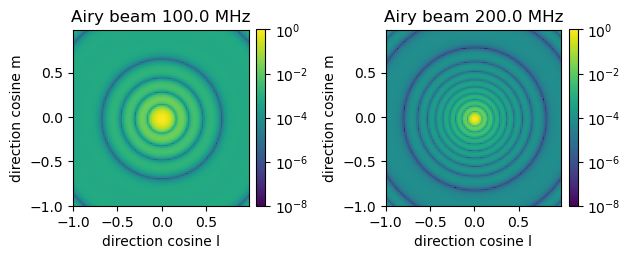
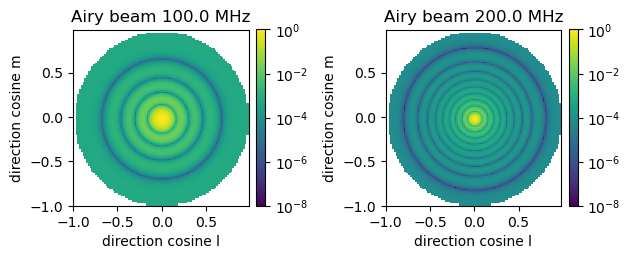
Add a BeamInterface tutorial
minor improvements to the analytic beam tutorial
better error message in UVBeam.interp

diff --git a/tests/uvbeam/test_uvbeam.py b/tests/uvbeam/test_uvbeam.py
@@ -1182,15 +1182,26 @@ def test_spatial_interpolation_errors(interpolation_function, cst_power_2freq_cu
             freq_array=freq_interp_vals,
             interpolation_function=interpolation_function,
         )
-    # test errors if positions outside range
+    # test errors if positions outside range (zenith angle)
     with pytest.raises(
         ValueError,
-        match="at least one interpolation location "
-        "is outside of the UVBeam pixel coverage.",
+        match="at least one interpolation location is outside of the UVBeam "
+        "pixel coverage. The zenith angles values are outside UVBeam coverage.",
     ):
         uvbeam.interp(
             az_array=az_interp_vals,
             za_array=za_interp_vals + np.pi / 2,
+            interpolation_function=interpolation_function,
+        )
+
+    with pytest.raises(
+        ValueError,
+        match="at least one interpolation location is outside of the UVBeam "
+        "pixel coverage. The azimuth values are outside UVBeam coverage.",
+    ):
+        uvbeam.interp(
+            az_array=az_interp_vals + np.pi / 2,
+            za_array=za_interp_vals,
             interpolation_function=interpolation_function,
         )
 

diff --git a/src/pyuvdata/uvbeam/uvbeam.py b/src/pyuvdata/uvbeam/uvbeam.py
@@ -1392,9 +1392,14 @@ class UVBeam(UVBase):
                 az_sq_dist = np.where(az_sq_dist > temp_arr, temp_arr, az_sq_dist)
 
         if np.any(np.sqrt(az_sq_dist + za_sq_dist) > (max_axis_diff * 2.0)):
+            if np.any(np.sqrt(za_sq_dist) > (max_axis_diff * 2.0)):
+                msg = " The zenith angles values are outside UVBeam coverage."
+            elif np.any(np.sqrt(az_sq_dist) > (max_axis_diff * 2.0)):
+                msg = " The azimuth values are outside UVBeam coverage."
+
             raise ValueError(
                 "at least one interpolation location "
-                "is outside of the UVBeam pixel coverage."
+                "is outside of the UVBeam pixel coverage." + msg
             )
 
     def _prepare_coordinate_data(self, input_data_array):

diff --git a/docs/analytic_beam_tutorial.rst b/docs/analytic_beam_tutorial.rst
@@ -45,16 +45,23 @@ are included the array returned from the ``power_eval`` method will be complex.
   >>> za_array = radius * zmax
   >>> az_array = np.arctan2(m_arr, l_arr)
 
+  >>> az_array = az_array.flatten()
+  >>> za_array = za_array.flatten()
+
   >>> Nfreqs = 11
   >>> freqs = np.linspace(100, 200, 11) * 1e6
 
-  >>> beam_vals = airy_beam.power_eval(
-  ...     az_array=az_array.flatten(), za_array=za_array.flatten(), freq_array=freqs
+  >>> # find the values above the horizon so we don't evaluate beyond the horizon
+  >>> above_hor = np.nonzero(za_array <= np.pi / 2.)[0]
+
+  >>> # set up an output array that matches the expected shape, except that it
+  >>> # includes the points beyond the horizon, and fill it with infinity.
+  >>> # Then we will set the points above the horizon to the output of power_eval.
+  >>> beam_vals = np.full((1, airy_beam.Npols, Nfreqs, n_vals * n_vals), np.inf, dtype=float)
+
+  >>> beam_vals[:, :, :, above_hor] = airy_beam.power_eval(
+  ...     az_array=az_array[above_hor], za_array=za_array[above_hor], freq_array=freqs
   ... )
-  >>> # Note that the returned array for the power response has shape
-  >>> # (1, Npols, number_of_frequencies, number_of_directions)
-  >>> beam_vals.shape
-  (1, 2, 11, 10000)
 
   >>> beam_vals = np.reshape(beam_vals, (1, airy_beam.Npols, Nfreqs, n_vals, n_vals))
 
@@ -109,48 +116,54 @@ part, but in general E-Field beams can be complex, so a complex array is returne
   >>> # set up zenith angle, azimuth and frequency arrays to evaluate with
   >>> # make a regular grid in direction cosines for nice plots
   >>> n_vals = 100
-  >>> zmax = np.radians(10)  # Degrees
+  >>> zmax = np.radians(90)  # Degrees
   >>> axis_arr = np.arange(-n_vals/2., n_vals/2.) / float(n_vals/2.)
   >>> l_arr, m_arr = np.meshgrid(axis_arr, axis_arr)
   >>> radius = np.sqrt(l_arr**2 + m_arr**2)
   >>> za_array = radius * zmax
   >>> az_array = np.arctan2(m_arr, l_arr)
 
+  >>> az_array = az_array.flatten()
+  >>> za_array = za_array.flatten()
+
   >>> Nfreqs = 11
   >>> freqs = np.linspace(100, 200, 11) * 1e8
 
-  >>> beam_vals = dipole_beam.efield_eval(
-  ...     az_array=az_array.flatten(), za_array=za_array.flatten(), freq_array=freqs
-  ... )
-  >>> # Note that the returned array for the E-field response has shape
-  >>> # (Naxes_vec, Nfeeds, number_of_frequencies, number_of_directions)
-  >>> beam_vals.shape
-  (2, 2, 11, 10000)
+  >>> # find the values above the horizon so we don't evaluate beyond the horizon
+  >>> above_hor = np.nonzero(za_array <= np.pi / 2.)[0]
 
-  >>> # reshape to get l/m grid back.
+  >>> # set up an output array that matches the expected shape except, that it
+  >>> # includes the points beyond the horizon, and fill it with infinity.
+  >>> # Then we will set the points above the horizon to the output of efield_eval.
+  >>> beam_vals = np.full((dipole_beam.Naxes_vec, dipole_beam.Nfeeds, Nfreqs, n_vals * n_vals), np.inf, dtype=complex)
+
+  >>> beam_vals[:, :, :, above_hor] = dipole_beam.efield_eval(
+  ...     az_array=az_array[above_hor], za_array=za_array[above_hor], freq_array=freqs
+  ... )
+
   >>> beam_vals = np.reshape(beam_vals, (dipole_beam.Naxes_vec, dipole_beam.Nfeeds, Nfreqs, n_vals, n_vals))
 
   >>> fig, ax = plt.subplots(2, 2)
 
-  >>> be00 = ax[0,0].imshow(np.real(beam_vals[0,0,0]), extent=[np.min(l_arr), np.max(l_arr), np.min(m_arr), np.max(m_arr)])
+  >>> be00 = ax[0,0].imshow(beam_vals[0,0,0].real, extent=[np.min(l_arr), np.max(l_arr), np.min(m_arr), np.max(m_arr)])
   >>> _ = ax[0,0].set_title("E/W dipole azimuth response")
   >>> _ = ax[0,0].set_xlabel("direction cosine l")
   >>> _ = ax[0,0].set_ylabel("direction cosine m")
   >>> _ = fig.colorbar(be00, ax=ax[0,0])
 
-  >>> be10 = ax[1,0].imshow(np.real(beam_vals[1,0,0]), extent=[np.min(l_arr), np.max(l_arr), np.min(m_arr), np.max(m_arr)])
+  >>> be10 = ax[1,0].imshow(beam_vals[1,0,0].real, extent=[np.min(l_arr), np.max(l_arr), np.min(m_arr), np.max(m_arr)])
   >>> _ = ax[1,0].set_title("E/W dipole zenith angle response")
   >>> _ = ax[1,0].set_xlabel("direction cosine l")
   >>> _ = ax[1,0].set_ylabel("direction cosine m")
   >>> _ = fig.colorbar(be00, ax=ax[1,0])
 
-  >>> be01 = ax[0,1].imshow(np.real(beam_vals[0,1,0]), extent=[np.min(l_arr), np.max(l_arr), np.min(m_arr), np.max(m_arr)])
+  >>> be01 = ax[0,1].imshow(beam_vals[0,1,0].real, extent=[np.min(l_arr), np.max(l_arr), np.min(m_arr), np.max(m_arr)])
   >>> _ = ax[0,1].set_title("N/S dipole azimuth response")
   >>> _ = ax[0,1].set_xlabel("direction cosine l")
   >>> _ = ax[0,1].set_ylabel("direction cosine m")
   >>> _ = fig.colorbar(be00, ax=ax[0,1])
 
-  >>> be11 = ax[1,1].imshow(np.real(beam_vals[1,1,0]), extent=[np.min(l_arr), np.max(l_arr), np.min(m_arr), np.max(m_arr)])
+  >>> be11 = ax[1,1].imshow(beam_vals[1,1,0].real, extent=[np.min(l_arr), np.max(l_arr), np.min(m_arr), np.max(m_arr)])
   >>> _ = ax[1,1].set_title("N/S dipole zenith angle response")
   >>> _ = ax[1,1].set_xlabel("direction cosine l")
   >>> _ = ax[1,1].set_ylabel("direction cosine m")

diff --git a/docs/beam_interface_tutorial.rst b/docs/beam_interface_tutorial.rst
@@ -1,0 +1,103 @@
+--------------
+Beam Interface
+--------------
+
+The BeamInterface object is designed to provide a unified interface for UVBeam
+and AnalyticBeam objects to compute beam response values. It can be constructed
+with either a :class:`pyuvdata.UVBeam` or :class:`AnalyticBeam` and the beam
+response can be calculated using the :meth:`pyuvdata.BeamInterface.compute_response`
+method.
+
+Using BeamInterface
+-------------------
+
+The following code shows how to set up two BeamInterface objects, one with an
+analytic beam and one with a UVBeam. Then each is evalated at the same frequency
+and directions using the same call to :meth:`pyuvdata.BeamInterface.compute_response`
+and the results are plotted. The value of the BeamInterface object is that it
+unifies the interface so the code calling it does not need to know if the beam
+that is attached to it is an analytic beam or a UVBeam.
+
+.. code-block:: python
+
+  >>> import os
+  >>> import matplotlib.pyplot as plt
+  >>> import numpy as np
+  >>> from matplotlib.colors import LogNorm
+
+  >>> from pyuvdata import ShortDipoleBeam, BeamInterface, UVBeam
+  >>> from pyuvdata.data import DATA_PATH
+
+  >>> filename = os.path.join(DATA_PATH, "mwa_full_EE_test.h5")
+
+  >>> dipole_beam = BeamInterface(ShortDipoleBeam(), beam_type="power")
+  >>> mwa_beam = BeamInterface(UVBeam.from_file(filename, pixels_per_deg=1), beam_type="power")
+
+  >>> # set up zenith angle, azimuth and frequency arrays to evaluate with
+  >>> # make a regular grid in direction cosines for nice plots
+  >>> n_vals = 100
+  >>> zmax = np.radians(90)  # Degrees
+  >>> axis_arr = np.arange(-n_vals/2., n_vals/2.) / float(n_vals/2.)
+  >>> l_arr, m_arr = np.meshgrid(axis_arr, axis_arr)
+  >>> radius = np.sqrt(l_arr**2 + m_arr**2)
+  >>> za_array = radius * zmax
+  >>> az_array = np.arctan2(m_arr, l_arr)
+
+  >>> # Wrap the azimuth array to [0, 2pi] to match the extent of the UVBeam azimuth
+  >>> where_neg_az = np.nonzero(az_array < 0)
+  >>> az_array[where_neg_az] = az_array[where_neg_az] + np.pi * 2.
+  >>> az_array = az_array.flatten()
+  >>> za_array = za_array.flatten()
+
+  >>> # find the values above the horizon so we don't try to interpolate the MWA beam
+  >>> # beyond the horizon
+  >>> above_hor = np.nonzero(za_array <= np.pi / 2.)[0]
+
+  >>> # set up output arrays that matches the expected shape, except that they
+  >>> # include the points beyond the horizon, and fill them with infinity.
+  >>> # Then we will set the points above the horizon to the computed responses.
+  >>> dipole_beam_vals = np.full((1, 4, 1, n_vals * n_vals), np.inf, dtype=complex)
+  >>> mwa_beam_vals = np.full((1, 4, 1, n_vals * n_vals), np.inf, dtype=complex)
+
+  >>> # The MWA beam we have in our test data is small, it only has 3 frequencies,
+  >>> # so we will just get the value at one of those frequencies rather than
+  >>> # trying to interpolate to a new frequency.
+  >>> freqs = np.array([mwa_beam.beam.freq_array[-1]])
+
+  >>> dipole_beam_vals[:, :, :, above_hor] = dipole_beam.compute_response(
+  ...     az_array=az_array[above_hor], za_array=za_array[above_hor], freq_array=freqs
+  ... )
+  >>> dipole_beam_vals = dipole_beam_vals.reshape(4, n_vals, n_vals)
+
+  >>> mwa_beam_vals[:, :, :, above_hor] = mwa_beam.compute_response(
+  ...     az_array=az_array[above_hor], za_array=za_array[above_hor], freq_array=freqs
+  ... )
+  >>> mwa_beam_vals = mwa_beam_vals.reshape(4, n_vals, n_vals)
+
+  >>> fig, ax = plt.subplots(1, 2)
+  >>> bp_dip = ax[0].imshow(
+  ...   dipole_beam_vals[0].real,
+  ...   norm=LogNorm(vmin = 1e-4, vmax =1),
+  ...   extent=[np.min(l_arr), np.max(l_arr), np.min(m_arr), np.max(m_arr)],
+  ... )
+  >>> _ = ax[0].set_title(f"E/W Dipole power beam")
+  >>> _ = ax[0].set_xlabel("direction cosine l")
+  >>> _ = ax[0].set_ylabel("direction cosine m")
+  >>> _ = fig.colorbar(bp_dip, ax=ax[0], fraction=0.046, pad=0.04)
+
+  >>> bp_mwa = ax[1].imshow(
+  ...   mwa_beam_vals[0].real,
+  ...   norm=LogNorm(vmin = 1e-4, vmax =1),
+  ...   extent=[np.min(l_arr), np.max(l_arr), np.min(m_arr), np.max(m_arr)],
+  ... )
+  >>> _ = ax[1].set_title(f"MWA E/W power beam")
+  >>> _ = ax[1].set_xlabel("direction cosine l")
+  >>> _ = ax[1].set_ylabel("direction cosine m")
+  >>> _ = fig.colorbar(bp_mwa, ax=ax[1], fraction=0.046, pad=0.04)
+  >>> fig.tight_layout()
+  >>> plt.show()  # doctest: +SKIP
+  >>> plt.savefig("Images/dipole_mwa_power.png", bbox_inches='tight')
+  >>> plt.clf()
+
+.. image:: Images/dipole_mwa_power.png
+  :width: 600

diff --git a/docs/beam_interface.rst b/docs/beam_interface.rst
@@ -3,11 +3,11 @@ Beam Interface
 
 The BeamInterface object is designed to provide a unified interface for UVBeam
 and AnalyticBeam objects to compute beam response values. It can be constructed
-with either a UVBeam or AnalyticBeam and it provides the
-:meth:`pyuvdata.BeamInterface.compute_response` method, which can be used to
+with either a :class:`pyuvdata.UVBeam` or :class:`AnalyticBeam` and it provides
+the :meth:`pyuvdata.BeamInterface.compute_response` method, which can be used to
 either evaluate the response of an AnalyticBeam or interpolate a UVBeam to get
 the beam response. This interface provides a simplified way for simulators to
-call either UVBeams or analytic beams.
+get beam responses from either UVBeams or analytic beams with the same code.
 
 .. autoclass:: pyuvdata.BeamInterface
    :members:

diff --git a/docs/tutorial.rst b/docs/tutorial.rst
@@ -17,3 +17,4 @@ Tutorials are available for each major user class:
     uvcal_tutorial.rst
     uvbeam_tutorial.rst
     analytic_beam_tutorial.rst
+    beam_interface_tutorial.rst
